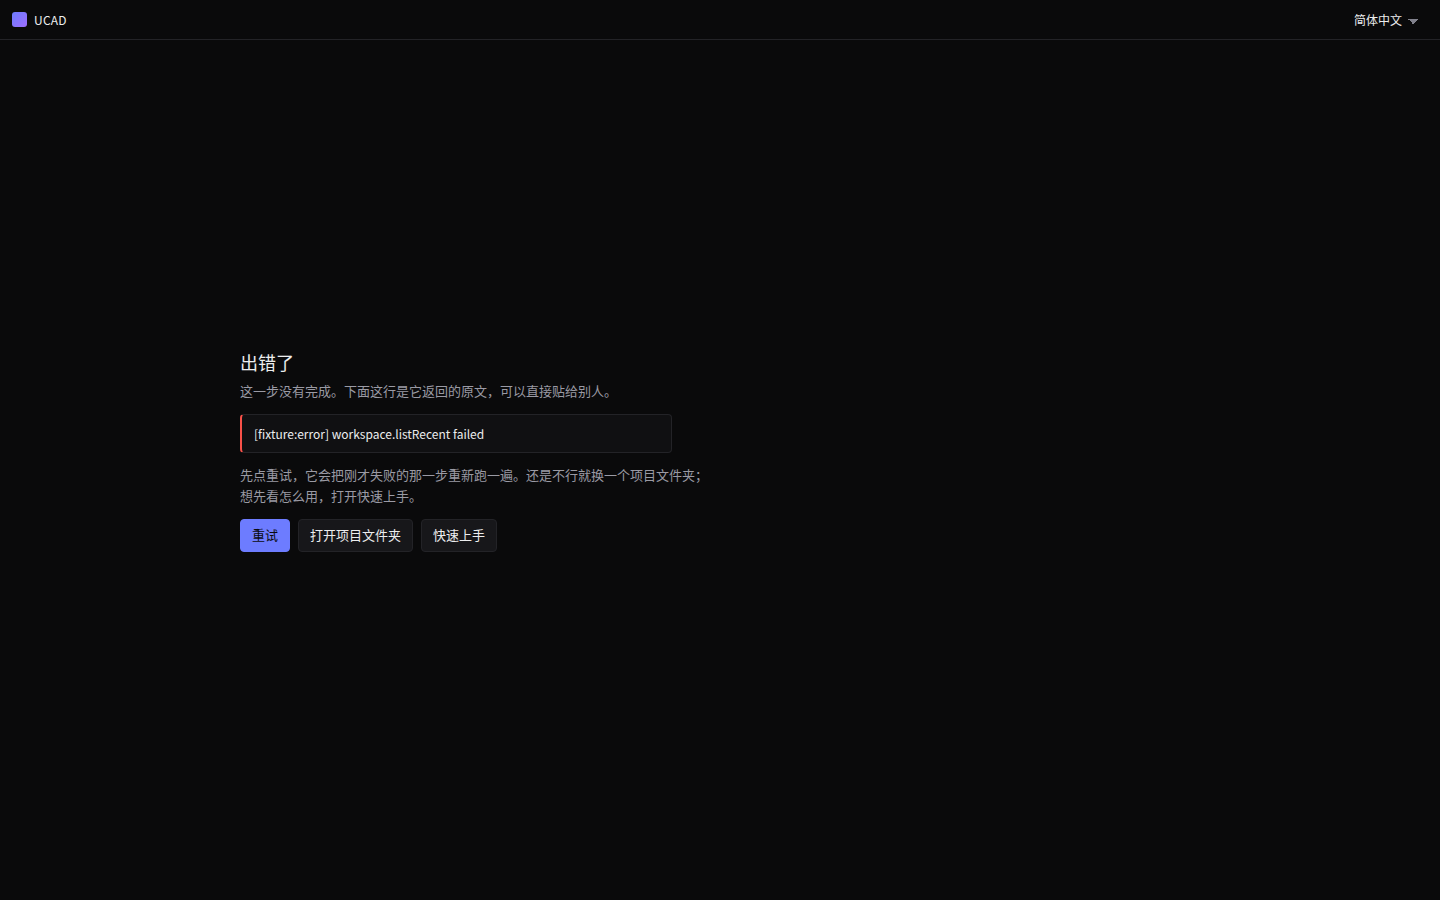
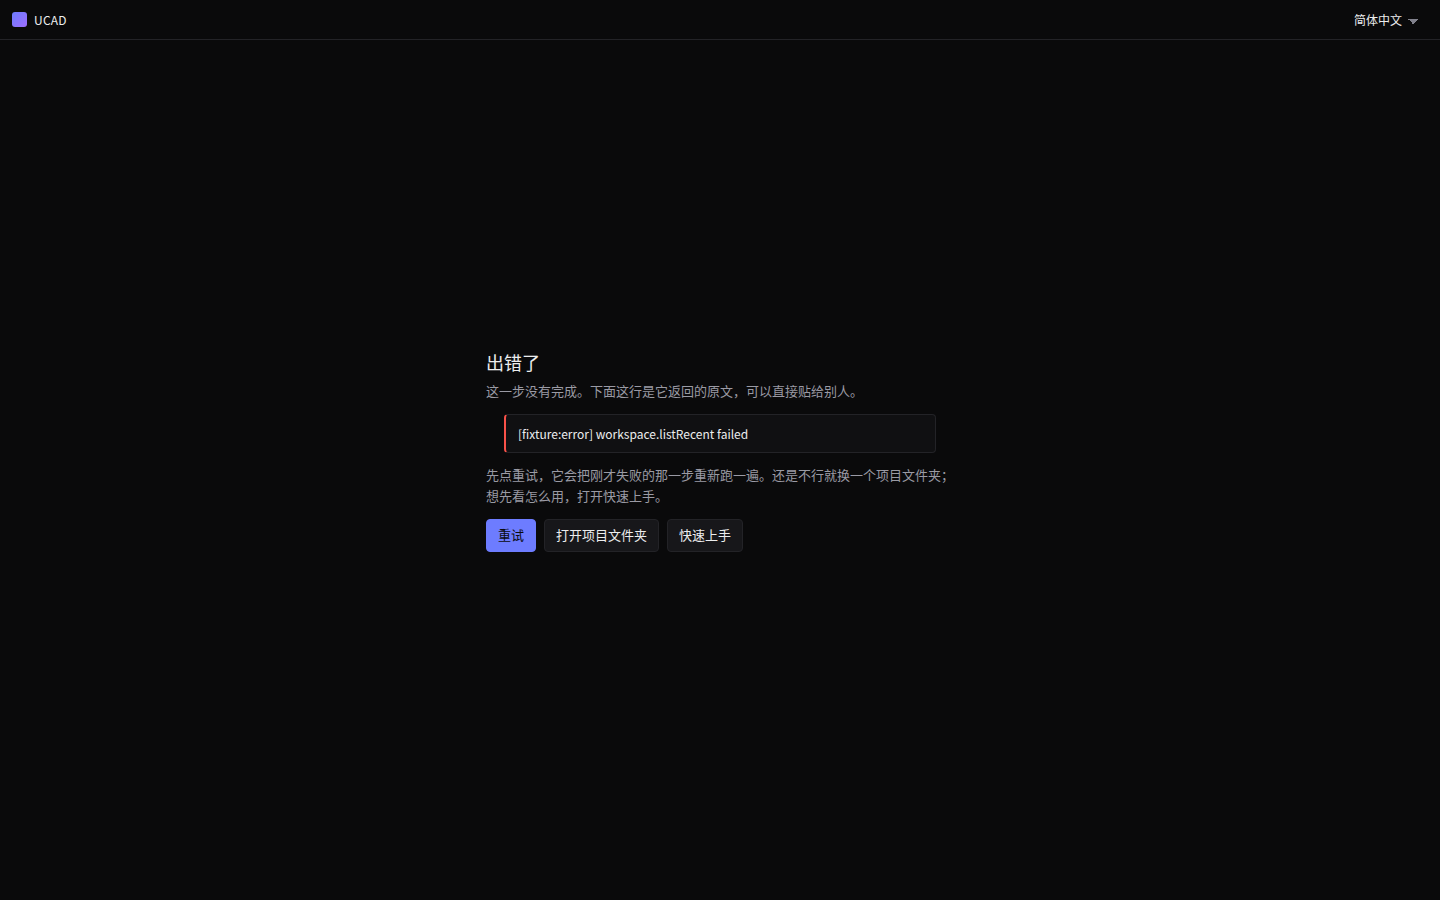
layout(ui,gate): 失败那一屏的列现在两个轴都居中——一条规则说了「居中」却只做了纵向，左右边距差 492px 变成 0，四块字共用一个 measure

Changed region(s): [[0.1562, 0.3733, 0.6562, 0.6222]]

diff --git a/tests/contract/layout.test.ts b/tests/contract/layout.test.ts
@@ -223,6 +223,26 @@ interface Measurement {
       columnHeight: number;
     } | null;
     /**
+     * The failed-load screen's column, measured on the horizontal axis.
+     *
+     * `fatalFold` above answers "is the next step inside the window". This
+     * answers "is the column inside the window *evenly*", which is the half the
+     * `layout` pass changed and the half nothing measured: the rule that
+     * centres this column said "centred in the window" while only centring it
+     * vertically, so the four blocks sat in the left third of a 1440px window.
+     * `content` is the pane's padding box (what the centring happens inside),
+     * `ink` the union of the four blocks, and the two margins are the numbers
+     * the assertion below compares. `null` when no fatal pane is on screen.
+     */
+    fatalColumn: {
+      viewportWidth: number;
+      content: { left: number; right: number };
+      ink: { left: number; right: number };
+      leftMargin: number;
+      rightMargin: number;
+      blocks: number;
+    } | null;
+    /**
      * The first-run block's hierarchy, as the engine computed it.
      *
      * `null` when the block is not on screen — a state without a first run is
@@ -1204,6 +1224,71 @@ describe('the interface states are measured, not assumed', () => {
       }
     }
     expect(outside, 'the failed-load screen promises below the fold').toEqual([]);
+  });
+
+  it('centres the failed-load column on both axes, not just the vertical one', () => {
+    /*
+     * The `layout` pass on the failed-load screen, made measurable.
+     *
+     * `docs/dod-status.md` records the critique: the shell is absent on
+     * purpose, the topbar stays, and the four blocks are the whole screen. What
+     * it also recorded, one round later, is that the rule centring this column
+     * claimed the window and only did one axis — `justify-content: safe center`
+     * is vertical, so at 1440x900 the ink sat in the left third of a window
+     * whose entire subject is four short blocks. That asymmetry is the
+     * difference between "a centred column, which reads as a decision" and "a
+     * page that stopped loading halfway", and it is exactly the kind of claim
+     * this repository does not accept as a comment.
+     *
+     * So: on every `error` frame, at both window sizes and both reason lengths,
+     * the union of the four blocks must sit inside the pane's padding box with
+     * equal margins. Two pixels of slack, because subpixel layout rounds the
+     * two edges independently and a gate that fails on 0.5px is a gate people
+     * switch off.
+     *
+     * The two guards against a vacuous pass matter as much as the equality:
+     * `blocks` must be 4 (a pane that lost three children is trivially
+     * "centred"), and both margins must be positive (a column as wide as its
+     * pane has nothing to centre, and would pass the equality by being flush on
+     * both sides — the same "measured zero, therefore green" shape this
+     * repository has named before).
+     */
+    const failed = measurements.filter((m) => m.state === 'error');
+    expect(
+      failed.length,
+      'the failed-load screen was never measured, so the centring check below is vacuous',
+    ).toBeGreaterThanOrEqual(3);
+
+    const off: string[] = [];
+    for (const m of failed) {
+      const column = m.content.fatalColumn;
+      if (column === null) {
+        off.push(`${m.name}: no failed-load column was found to place`);
+        continue;
+      }
+      if (column.blocks !== 4) {
+        off.push(
+          `${m.name}: the failed-load column has ${column.blocks} block(s), not 4 — the heading, ` +
+            'the reason, the next step and the buttons are the whole screen',
+        );
+        continue;
+      }
+      if (column.leftMargin <= 0 || column.rightMargin <= 0) {
+        off.push(
+          `${m.name}: the column is flush against its pane (${column.leftMargin}px / ` +
+            `${column.rightMargin}px), so there is no centring to measure`,
+        );
+        continue;
+      }
+      if (Math.abs(column.leftMargin - column.rightMargin) > 2) {
+        off.push(
+          `${m.name}: the column sits ${column.leftMargin}px from the left and ` +
+            `${column.rightMargin}px from the right of a ${column.viewportWidth}px window — ` +
+            'off-centre, which reads as a page that stopped loading halfway',
+        );
+      }
+    }
+    expect(off, 'the failed-load column is not centred on the horizontal axis').toEqual([]);
   });
 
   it('the permission state really has a prompt on screen', () => {

diff --git a/apps/desktop/src/renderer/src/styles.css b/apps/desktop/src/renderer/src/styles.css
@@ -1023,19 +1023,51 @@ code,
  * would push its top out above the scrollport with no way to scroll back to it.
  * `safe center` falls back to the start edge when the content does not fit, so
  * the reason scrolls and the retry button stays reachable.
+ *
+ * ## The other axis, which this rule claimed and did not do
+ *
+ * `justify-content` centres the column *vertically*. The comment above said
+ * "centred in the window" and that was true on one axis only: horizontally the
+ * four blocks were left-aligned on the page column, so at 1440×900 the text
+ * started at x=240 and stopped at x=699 — 240px of margin on the left, 741px
+ * of empty window on the right. Measured on the committed picture, the ink of
+ * `docs/screenshots/error.png` sat in the left third of a screen whose whole
+ * subject is four short blocks. That asymmetry is what reads as "not finished
+ * yet": a centred column with equal margins reads as a decision, an off-centre
+ * one reads as a page that stopped loading halfway.
+ *
+ * So the column is now the prose measure and it is centred on both axes. The
+ * width is `--measure-prose` rather than a number of its own because the three
+ * text blocks already carried it (`.pane-head p`, `.notice`, `.fatal-next`) —
+ * the only blocks that were wider were the head and the button row, i.e. the
+ * two that had no text to justify it. One column, one measure, both axes.
+ *
+ * What this deliberately does not do: it adds no colour, no type size and no
+ * copy. The four blocks, their order and their words are unchanged, and so are
+ * the four `error` criteria in `docs/state-walkthrough.md` — this is the
+ * `layout` pass on a screen whose `critique` was already answered, not a new
+ * screen. The shell is still absent on purpose (see `docs/dod-status.md`).
  */
 .pane.fatal {
   display: flex;
   flex-direction: column;
   justify-content: safe center;
+  /* Centres the column on the horizontal axis too. Without it a child with
+     `width: 100%` and a `max-width` smaller than the pane sits at the start
+     edge, which is exactly the off-centre picture described above. */
+  align-items: center;
   gap: var(--sp-3);
 }
 
 /* The gap owns the spacing in this column, so no child adds its own: the head
    carries a bottom margin and both paragraphs the UA's `1em 0`, and in a flex
-   column margins do not collapse, so each one would sit on top of the gap. */
+   column margins do not collapse, so each one would sit on top of the gap.
+   `width: 100%` is what makes the four blocks share one column instead of each
+   shrinking to its own text; `max-width` is the measure that column is. */
 .pane.fatal > * {
   margin: 0;
+  width: 100%;
+  max-width: var(--measure-prose);
 }
 
 .fatal-next {

diff --git a/docs/dod-status.md b/docs/dod-status.md
@@ -1956,3 +1956,47 @@ same write: TMPDIR=/var/tmp node scripts/gate-local.mjs
 `Test Files 115 passed (115)`、`Tests 1970 passed | 1 skipped (1971)`；`npm run test:e2e` →
 21 个文件 163 项全绿。三个数对得上，不需要读者猜：上一轮 1951 + 8（日期）+ 10（抄本）
 + 1（折叠线）= 1970；`layout.test.ts` 自己从 52 项变成 53 项。
+
+## 本轮（2026-11-06）失败那一屏的横向：一条规则说了两个轴，只做了一个
+
+上一节的 critique 判过「这一屏该不该有 shell」，结论是不该有、topbar 留着。这一节是同一屏的
+`layout` pass，范围严格限定在**这一屏的框**：不动 `App.tsx` 的 `if (fatal)` 分支结构、不动
+`layout-page-scripts.mjs` 里 `content.shell` 的三个区域断言、不动 `docs/state-walkthrough.md`
+的 `error` 四条判据（判据一字未改，改的是它描述的那一屏的观感）。
+
+**缺陷**：`.pane.fatal` 的注释写着「centred in the window」，而 `justify-content: safe center`
+只做**纵向**。横向四个块仍然贴着页面列的起始边：1440×900 下量到的是左边距 0px、右边距 492px
+（相对 pane 的 padding box），也就是整屏的墨迹落在左三分之一。一个居中的列读起来是「决定」，
+一个偏在一边的列读起来是「这一页加载到一半停了」——这正是 `error.png` 一直被人说「像没做完」的
+那个形状，而它此前没有任何一条门禁量过。
+
+**改法**（只改 `.pane.fatal` 与它的子元素，不新增颜色、字号档、i18n 条目）：
+`align-items: center` 让四个块在 pane 的 padding box 里居中；`.pane.fatal > *` 补上
+`width: 100%` + `max-width: var(--measure-prose)`，让四个块共用**一个**列宽（此前只有三个文本块
+带这个 measure，head 与按钮行没有，所以它们各自撑到 pane 宽）。一个列、一个 measure、两个轴。
+
+**门禁**：`scripts/layout-page-scripts.mjs` 新增 `fatalColumn`（pane 的 padding box、四个块 rect
+的并集、左右两个边距、块数），`tests/contract/layout.test.ts` 新增
+`centres the failed-load column on both axes, not just the vertical one`：每一个 `error` 帧
+（两个窗口尺寸 × 两种原因长度）左右边距之差 ≤ 2px，且块数必须是 4、两个边距都必须 > 0——
+后两条是防「量到零所以通过」：一个和 pane 一样宽的列两边都贴边，等式照样成立。
+
+**证明它会红**（本轮真跑）：删掉 `align-items: center` 之后，同一用例 1 failed / 60 skipped，
+打出来的是
+
+```
+state-error: the column is flush against its pane (0px / 492px), so there is no centring to measure
+state-error-tight: the column is flush against its pane (0px / 264px), so there is no centring to measure
+state-error-tight-long-reason: the column is flush against its pane (0px / 264px), so there is no centring to measure
+```
+
+恢复后 61/61 绿（`layout.test.ts`，本轮新增 1 项）。
+
+**截图**：`docs/screenshots/error.png`（1440×900，36359 字节）与
+`docs/screenshots/states/error-768x700.png`（768×700，32786 字节）重拍自布局门禁在真实 Chromium 里
+拍的那两张（`.run-logs/layout/state-error-chat.png` 与 `state-error-tight-chat.png`），
+`node scripts/screenshot-sources.mjs --check` → `PASS — 34 renderer source(s) and 14 screenshot(s)`。
+其余 12 张与上一轮提交的逐字节相同，所以这个 diff 里只动了两张图。
+
+**没做的**：`error` 的四条判据、rail/statusbar 的结论、`App.tsx` 的 fatal 分支结构、任何新文案。
+这一屏仍然没有 shell，仍然只有四块字——本轮只让这四块字站在窗口中间。
